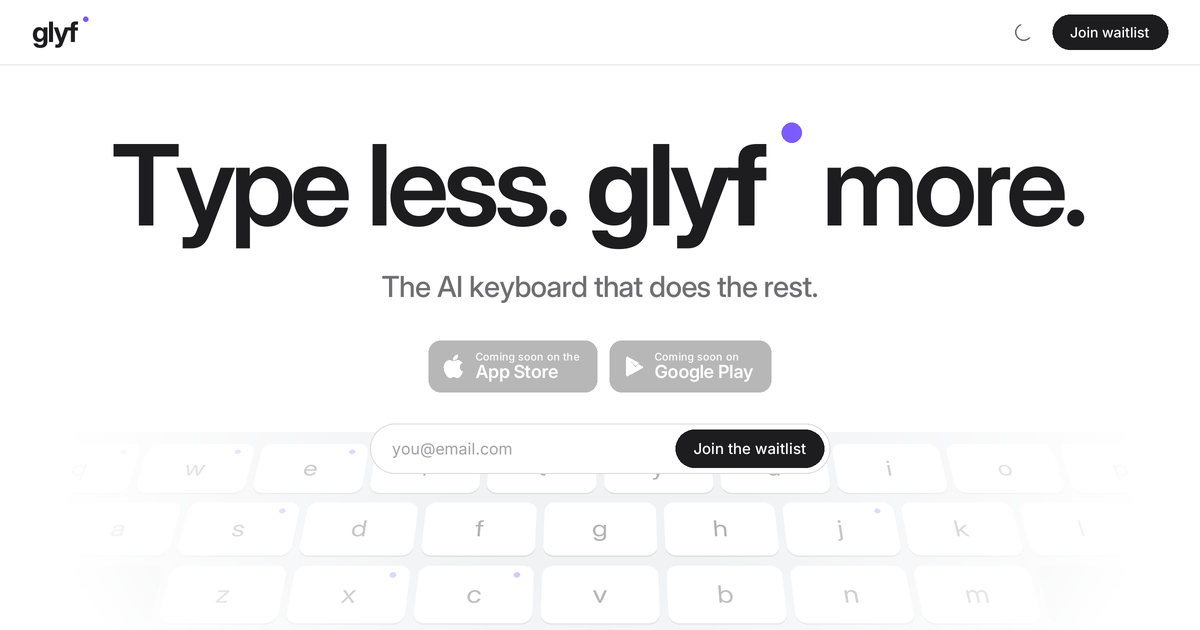
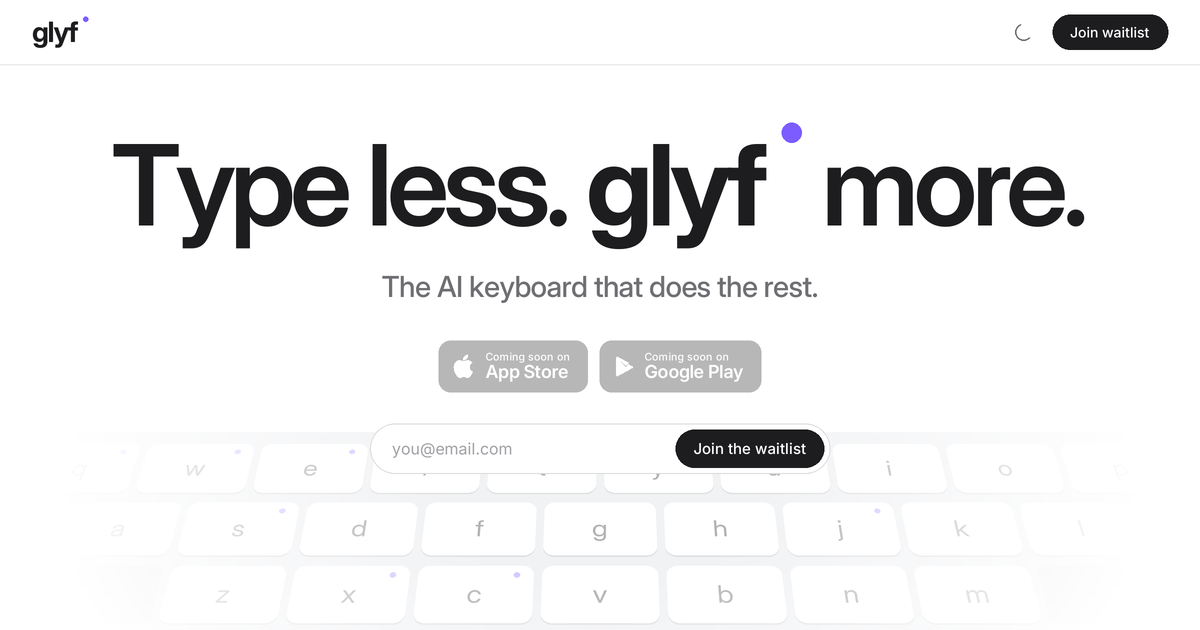
Both badges say "Coming soon on"
The small lines were "Coming soon on the" and "Coming soon on", which is
each store's own badge with the verb swapped: Apple's says "Download on
the", Google's says "GET IT ON". Faithful to both, and correct English
either way, but side by side the ragged line is what you see. Both read
the same now and the pair reads as a pair.

The share image is regenerated from the same strings, so the card and
the page still say the same thing. The screen-reader label keeps its
article ("Coming soon to the App Store and Google Play"): it is a
sentence rather than a badge, and dropping it there would just be wrong.

Changed region(s): [[0.3392, 0.5429, 0.6475, 0.6333]]

diff --git a/site/app/page.tsx b/site/app/page.tsx
@@ -25,7 +25,7 @@ const StoreBadges = () => (
     <span className="store" aria-disabled="true">
       <AppleMark />
       <span className="store-lines">
-        <small>Coming soon on the</small>
+        <small>Coming soon on</small>
         <b>App Store</b>
       </span>
     </span>

diff --git a/tools/make_og_image.py b/tools/make_og_image.py
@@ -371,10 +371,10 @@ def main():
 
     # badges: measure first, then centre the pair
     probe = Image.new("RGBA", (10, 10))
-    w1 = store_badge(probe, 0, 0, "apple", "Coming soon on the", "App Store")
+    w1 = store_badge(probe, 0, 0, "apple", "Coming soon on", "App Store")
     w2 = store_badge(probe, 0, 0, "play", "Coming soon on", "Google Play")
     bx = (W - (w1 + 12 + w2)) / 2
-    store_badge(canvas, bx, y, "apple", "Coming soon on the", "App Store")
+    store_badge(canvas, bx, y, "apple", "Coming soon on", "App Store")
     store_badge(canvas, bx + w1 + 12, y, "play", "Coming soon on", "Google Play")
     y += 52 + 31.2
 

diff --git a/docs/WEBSITE.md b/docs/WEBSITE.md
@@ -40,7 +40,7 @@ Opens on http://localhost:3000. The waitlist needs `DATABASE_URL` in `site/.env.
 4. **Hero** (`section.hero#top`):
    - Headline: **"Type less. glyf more."** where "glyf" is the wordmark itself (lowercase, weight 700, tight tracking, raised purple dot), per Arpit on 16 Sep: "glyf more text in hero, glyf should be our wordmark logo in there". One line on desktop, two lines on phones ("Type less." / "glyf• more.").
    - Subline: **"The AI keyboard that does the rest."**
-   - Greyed store badges: "Coming soon on the App Store" and "Coming soon on Google Play" (not clickable, `aria-disabled`, 32% opacity, grayscale).
+   - Greyed store badges: "Coming soon on App Store" and "Coming soon on Google Play" (the small line is the same on both, so the pair reads as a pair; Apple's own badge says "Download on the", Google's says "GET IT ON") (not clickable, `aria-disabled`, 32% opacity, grayscale).
    - Waitlist form (`source="hero"`).
 5. **The chat experience** (`div#try > components/chat/Experience.tsx`): a pinned, scroll-driven iMessage stage with 8 chats. Each chat is a small level where a friend asks for something and the visitor does it on the Glyf keyboard.
 6. **Finale** (`section.finale#join`): **"Made for your thumbs."** plus a second waitlist form (`source="footer"`).
